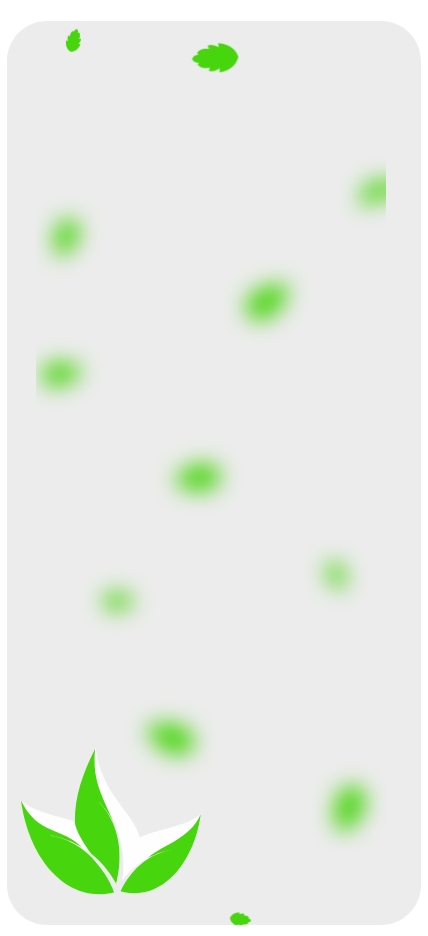
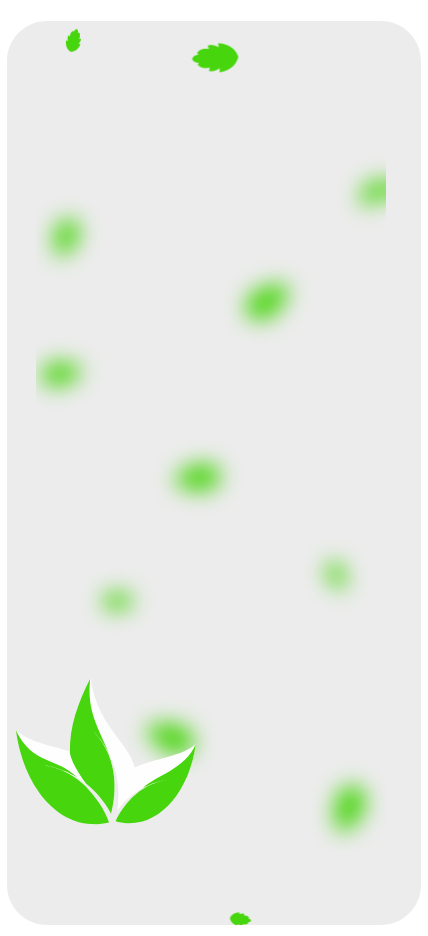
add botom tab styles and screen bg

Changed region(s): [[0.0304, 0.7126, 0.486, 0.9605]]

diff --git a/routes/UserStack.js b/routes/UserStack.js
@@ -9,6 +9,8 @@ import Login from '../screens/user/Login';
 import Register from '../screens/user/Register';
 import Settings from '../screens/user/Settings';
 import {createBottomTabNavigator} from '@react-navigation/bottom-tabs';
+import {Image} from 'react-native';
+import {global} from '../styles/global';
 
 // for stack navigation
 const Stack = createNativeStackNavigator();
@@ -19,7 +21,7 @@ const Tab = createBottomTabNavigator();
 // stack for login direct with Login.js
 const LoginStack = () => {
   return (
-    <Stack.Navigator>
+    <Stack.Navigator screenOptions={{headerShown: false}}>
       <Stack.Screen name="Log in" component={Login} />
     </Stack.Navigator>
   );
@@ -28,7 +30,7 @@ const LoginStack = () => {
 // stack for Register direct with Register.js
 const RegStack = () => {
   return (
-    <Stack.Navigator>
+    <Stack.Navigator screenOptions={{headerShown: false}}>
       <Stack.Screen name="Registration" component={Register} />
     </Stack.Navigator>
   );
@@ -37,7 +39,7 @@ const RegStack = () => {
 // stack for Setting direct with Settings.js
 const SettingStack = () => {
   return (
-    <Stack.Navigator>
+    <Stack.Navigator screenOptions={{headerShown: false}}>
       <Stack.Screen name="Setting" component={Settings} />
     </Stack.Navigator>
   );
@@ -52,10 +54,53 @@ const UserStack = () => {
 
   return (
     // navigations
-    <Tab.Navigator screenOptions={{headerShown: false}}>
-      <Tab.Screen name="Pre Medication" component={Home} />
-      <Tab.Screen name="Camera" component={Camera} />
-      <Tab.Screen name="SearchDoc" component={SearchDoc} />
+    <Tab.Navigator
+      screenOptions={{
+        headerShown: false,
+        tabBarShowLabel: false,
+        tabBarStyle: {backgroundColor: 'transparent'},
+      }}>
+      {/*tab navigation for Pre-medication page*/}
+      <Tab.Screen
+        name="Home"
+        component={Home}
+        options={{
+          tabBarIcon: () => (
+            <Image
+              source={require('../screens/assets/home.png')}
+              style={global.tabIcons}
+            />
+          ),
+        }}
+      />
+
+      {/*tab navigation for camera page*/}
+      <Tab.Screen
+        name="Camera"
+        component={Camera}
+        options={{
+          tabBarIcon: () => (
+            <Image
+              source={require('../screens/assets/camera.png')}
+              style={global.tabIcons}
+            />
+          ),
+        }}
+      />
+
+      {/*tab navigation for searchDoc page*/}
+      <Tab.Screen
+        name="SearchDoc"
+        component={SearchDoc}
+        options={{
+          tabBarIcon: () => (
+            <Image
+              source={require('../screens/assets/search.png')}
+              style={global.tabIcons}
+            />
+          ),
+        }}
+      />
     </Tab.Navigator>
   );
 };

diff --git a/screens/user/Register.js b/screens/user/Register.js
@@ -1,11 +1,24 @@
 import React from 'react';
-import {View, Text} from 'react-native';
+import {View, Text, ImageBackground, Image, SafeAreaView} from 'react-native';
+import {global} from '../../styles/global';
 
 const Register = () => {
   return (
-    <View>
-      <Text>Register</Text>
-    </View>
+    <SafeAreaView style={global.bgImage}>
+      <ImageBackground
+        source={require('../assets/background.png')}
+        resizeMode="cover"
+        style={global.bgImage}>
+        <View style={global.header}>
+          <Image
+            source={require('../assets/logoMini.png')}
+            resizeMode="stretch"
+            style={global.logoMini}
+          />
+          <Text style={global.titleText}>Ayurveda Medi APP</Text>
+        </View>
+      </ImageBackground>
+    </SafeAreaView>
   );
 };
 

diff --git a/screens/user/Settings.js b/screens/user/Settings.js
@@ -1,11 +1,24 @@
 import React from 'react';
-import {View, Text} from 'react-native';
+import {View, Text, ImageBackground, Image, SafeAreaView} from 'react-native';
+import {global} from '../../styles/global';
 
 const Settings = () => {
   return (
-    <View>
-      <Text>Settings</Text>
-    </View>
+    <SafeAreaView style={global.bgImage}>
+      <ImageBackground
+        source={require('../assets/background.png')}
+        resizeMode="cover"
+        style={global.bgImage}>
+        <View style={global.header}>
+          <Image
+            source={require('../assets/logoMini.png')}
+            resizeMode="stretch"
+            style={global.logoMini}
+          />
+          <Text style={global.titleText}>Ayurveda Medi APP</Text>
+        </View>
+      </ImageBackground>
+    </SafeAreaView>
   );
 };
 

diff --git a/screens/user/Login.js b/screens/user/Login.js
@@ -1,11 +1,24 @@
 import React from 'react';
-import {View, Text} from 'react-native';
+import {View, Text, ImageBackground, Image, SafeAreaView} from 'react-native';
+import {global} from '../../styles/global';
 
 const Login = () => {
   return (
-    <View>
-      <Text>Log in</Text>
-    </View>
+    <SafeAreaView style={global.bgImage}>
+      <ImageBackground
+        source={require('../assets/background.png')}
+        resizeMode="cover"
+        style={global.bgImage}>
+        <View style={global.header}>
+          <Image
+            source={require('../assets/logoMini.png')}
+            resizeMode="stretch"
+            style={global.logoMini}
+          />
+          <Text style={global.titleText}>Ayurveda Medi APP</Text>
+        </View>
+      </ImageBackground>
+    </SafeAreaView>
   );
 };
 

diff --git a/styles/global.js b/styles/global.js
@@ -17,6 +17,12 @@ export const global = StyleSheet.create({
     marginTop: 5,
     color: '#47D50D',
   },
+  titleText: {
+    textAlign: 'center',
+    fontSize: 25,
+    marginTop: 10,
+    color: '#47D50D',
+  },
   logoMini: {
     alignSelf: 'flex-end',
     height: 50,
@@ -25,5 +31,12 @@ export const global = StyleSheet.create({
     marginTop: 5,
     position: 'absolute',
     marginRight: '5%',
+  },
+  tabIcons: {
+    width: 50,
+    height: 50,
+    resizeMode: 'contain',
+    backgroundColor: 'transparent',
+    elevation: 0,
   },
 });

diff --git a/screens/user/SearchDoc.js b/screens/user/SearchDoc.js
@@ -1,5 +1,5 @@
 import React from 'react';
-import { View, Text, ImageBackground, SafeAreaView, Image } from "react-native";
+import {View, Text, ImageBackground, SafeAreaView, Image} from 'react-native';
 import {global} from '../../styles/global';
 
 const SearchDoc = () => {
